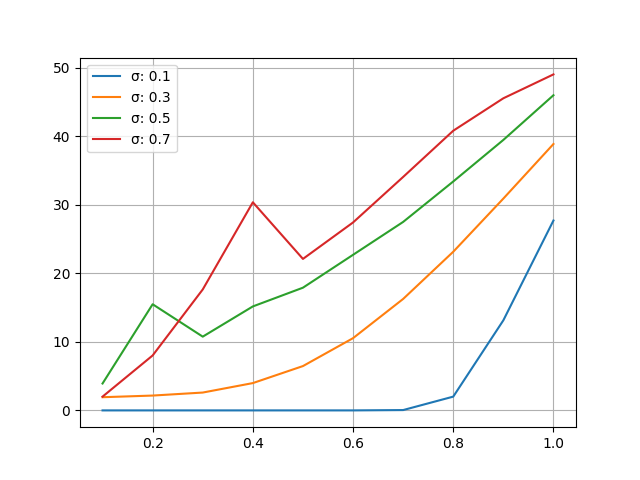
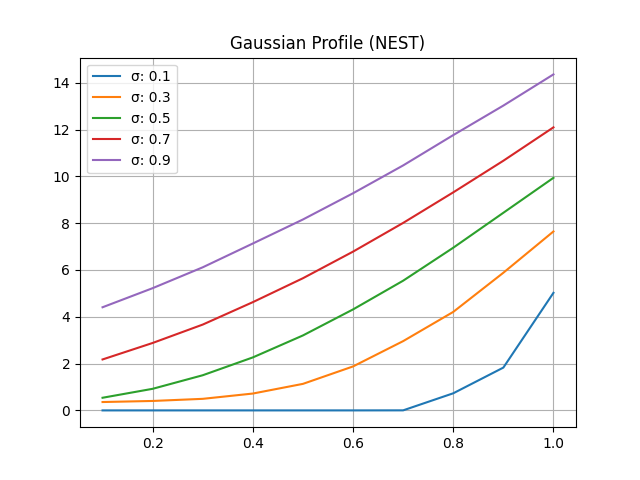
gaussian profile successfully generated on MIIND, benchmarking done

diff --git a/benchmarks/gaussian_profile_miind.py b/benchmarks/gaussian_profile_miind.py
@@ -7,7 +7,7 @@ import miind.miindsim as miind
 
 sigmas = [0.1, 0.3, 0.5, 0.7, 0.9]
 mus = [0.1 + i*0.1 for i in range(0, 10)]
-TAU = 10e-3
+TAU = 0.05
 
 GENERATE_FILES = False
 
@@ -32,10 +32,10 @@ def clean_dir():
 # generate-matrix
 def generate_simulation_files(name, efficacy):
     miind_filegen_cmds = ["sim %s.xml" % sim_name,
-                          "generate-lif-mesh %s %f 1. 0. -1. 0.001 500" % (name, TAU),
+                          "generate-lif-mesh %s %f 1. 0. -1. 0.001 750" % (name, TAU),
                           "generate-model %s 0. 1." % name,
                           "generate-empty-fid %s" % name,
-                          "generate-matrix %s %f 100" % (name, efficacy)
+                          "generate-matrix %s %f 100 0.0 0.0 true" % (name, efficacy)
                           ]
     for cmd in miind_filegen_cmds:
         system("python3 -m miind.miindio " + cmd)
@@ -105,27 +105,30 @@ results = []
 for i in sigmas:
     current_results = []
     for j in mus:
+        print(count)
         miind.init("gaussian" + str(count) + ".xml", 1)
         timestep = miind.getTimeStep()
         simulation_length = miind.getSimulationLength()
         miind.startSimulation()
+        activities = []
         for _ in range(0, int(simulation_length/timestep)):
-            miind.evolveSingleStep([])
+            activities.append(round(miind.evolveSingleStep([])[0], 3))
         miind.endSimulation()
-        try:
-            with open("gaussian" + str(count) + "_/rate_0", "r") as file:
-                data = []
-                for line in file:
-                    data.append(float(line.split("\t")[1]))
-                current_results.append(mean(data))
-            count += 1
-        except FileNotFoundError:
-            with open("rate_0", "r") as file:
-                data = []
-                for line in file:
-                    data.append(float(line.split("\t")[1]))
-                current_results.append(max(data))
-            count += 1
+        current_results.append(mean(activities))
+        # try:
+        #     with open("gaussian" + str(count) + "_/rate_0", "r") as file:
+        #         data = []
+        #         for line in file:
+        #             data.append(float(line.split("\t")[1]))
+        #         current_results.append(mean(data))
+        #     count += 1
+        # except FileNotFoundError:
+        #     with open("rate_0", "r") as file:
+        #         data = []
+        #         for line in file:
+        #             data.append(float(line.split("\t")[1]))
+        #         current_results.append(mean(data))
+        count += 1
     results.append(current_results)
 
 
@@ -142,4 +145,5 @@ plt.grid()
 for i in range(0, len(sigmas)):
     plt.plot(mus, results[i], label="\u03C3: " + str(sigmas[i]))
 plt.legend(loc="upper left")
+plt.title("Gaussian Profile (MIIND)")
 plt.show()

diff --git a/benchmarks/gaussian_profile_nest.py b/benchmarks/gaussian_profile_nest.py
@@ -9,8 +9,8 @@ try:
 except AttributeError:
     NEST_VERSION = "nest-2"
 
-POPULATION_SIZE = 95
-SIMULATION_TIME = 1000.
+POPULATION_SIZE = 9500
+SIMULATION_TIME = 500.
 
 NUMBER_OF_DEVICES = 2
 
@@ -40,20 +40,20 @@ def extract_spikes_from_recorder(filename, num_threads):
 
 
 results = []
-# mus = [MU + i*0.1 for i in range(0, 6)]
+individual_result = []
 
 sigmas = [0.1, 0.3, 0.5, 0.7, 0.9]
 for i in range(0, len(sigmas)):
     SIGMA = sigmas[i]
     MU = 0.1
-    TAU = 10.
+    TAU = 50.
     current_results = []
     for j in range(0, 10):
-        H = (SIGMA ** 2) / MU
+        H = round((SIGMA ** 2) / MU, 3)
         nest.ResetKernel()
         nest.SetKernelStatus({"overwrite_files": True, "local_num_threads": 8})
         nest.set_verbosity(18)
-        nest.SetDefaults("iaf_psc_delta", {"V_m": 0., "E_L": 0., "tau_m": TAU, "V_th": 1., "V_reset": 0., "I_e": 0.})
+        nest.SetDefaults("iaf_psc_delta", {"V_min": -1., "V_m": 0., "E_L": 0., "tau_m": TAU, "V_th": 1., "V_reset": 0.})
 
         pop = nest.Create("iaf_psc_delta", POPULATION_SIZE)
 
@@ -84,7 +84,7 @@ for i in range(0, len(sigmas)):
         nest.Connect(pop, spike_recorder)
 
         # print(nest.GetConnections())
-        nest.Simulate(1000.)
+        nest.Simulate(SIMULATION_TIME)
 
         spikes = extract_spikes_from_recorder(
                 "gaussian-%s-%s.dat" if NEST_VERSION == "nest-3.1" else "gaussian-%s-%s.gdf",
@@ -102,6 +102,9 @@ for i in range(0, len(sigmas)):
             count = (1000./dt)*(count/POPULATION_SIZE)
             firing_rates.append(count)
             t += dt
+
+        if SIGMA == 0.3 and MU == 0.7:
+            individual_result = firing_rates.copy()
 
         current_results.append(mean(firing_rates))
 
@@ -122,3 +125,14 @@ with open("gaussians_nest.dat", "w") as file:
         data = ",".join(data) + "\n"
         file.write(data)
 
+plt.figure(1)
+plt.grid()
+for i in range(0, len(sigmas)):
+    plt.plot(mus, results[i], label="\u03C3: " + str(sigmas[i]))
+plt.legend(loc="upper left")
+plt.title("Gaussian Profile (NEST)")
+# plt.figure(2)
+# plt.grid()
+# plt.plot(individual_result)
+
+plt.show()
